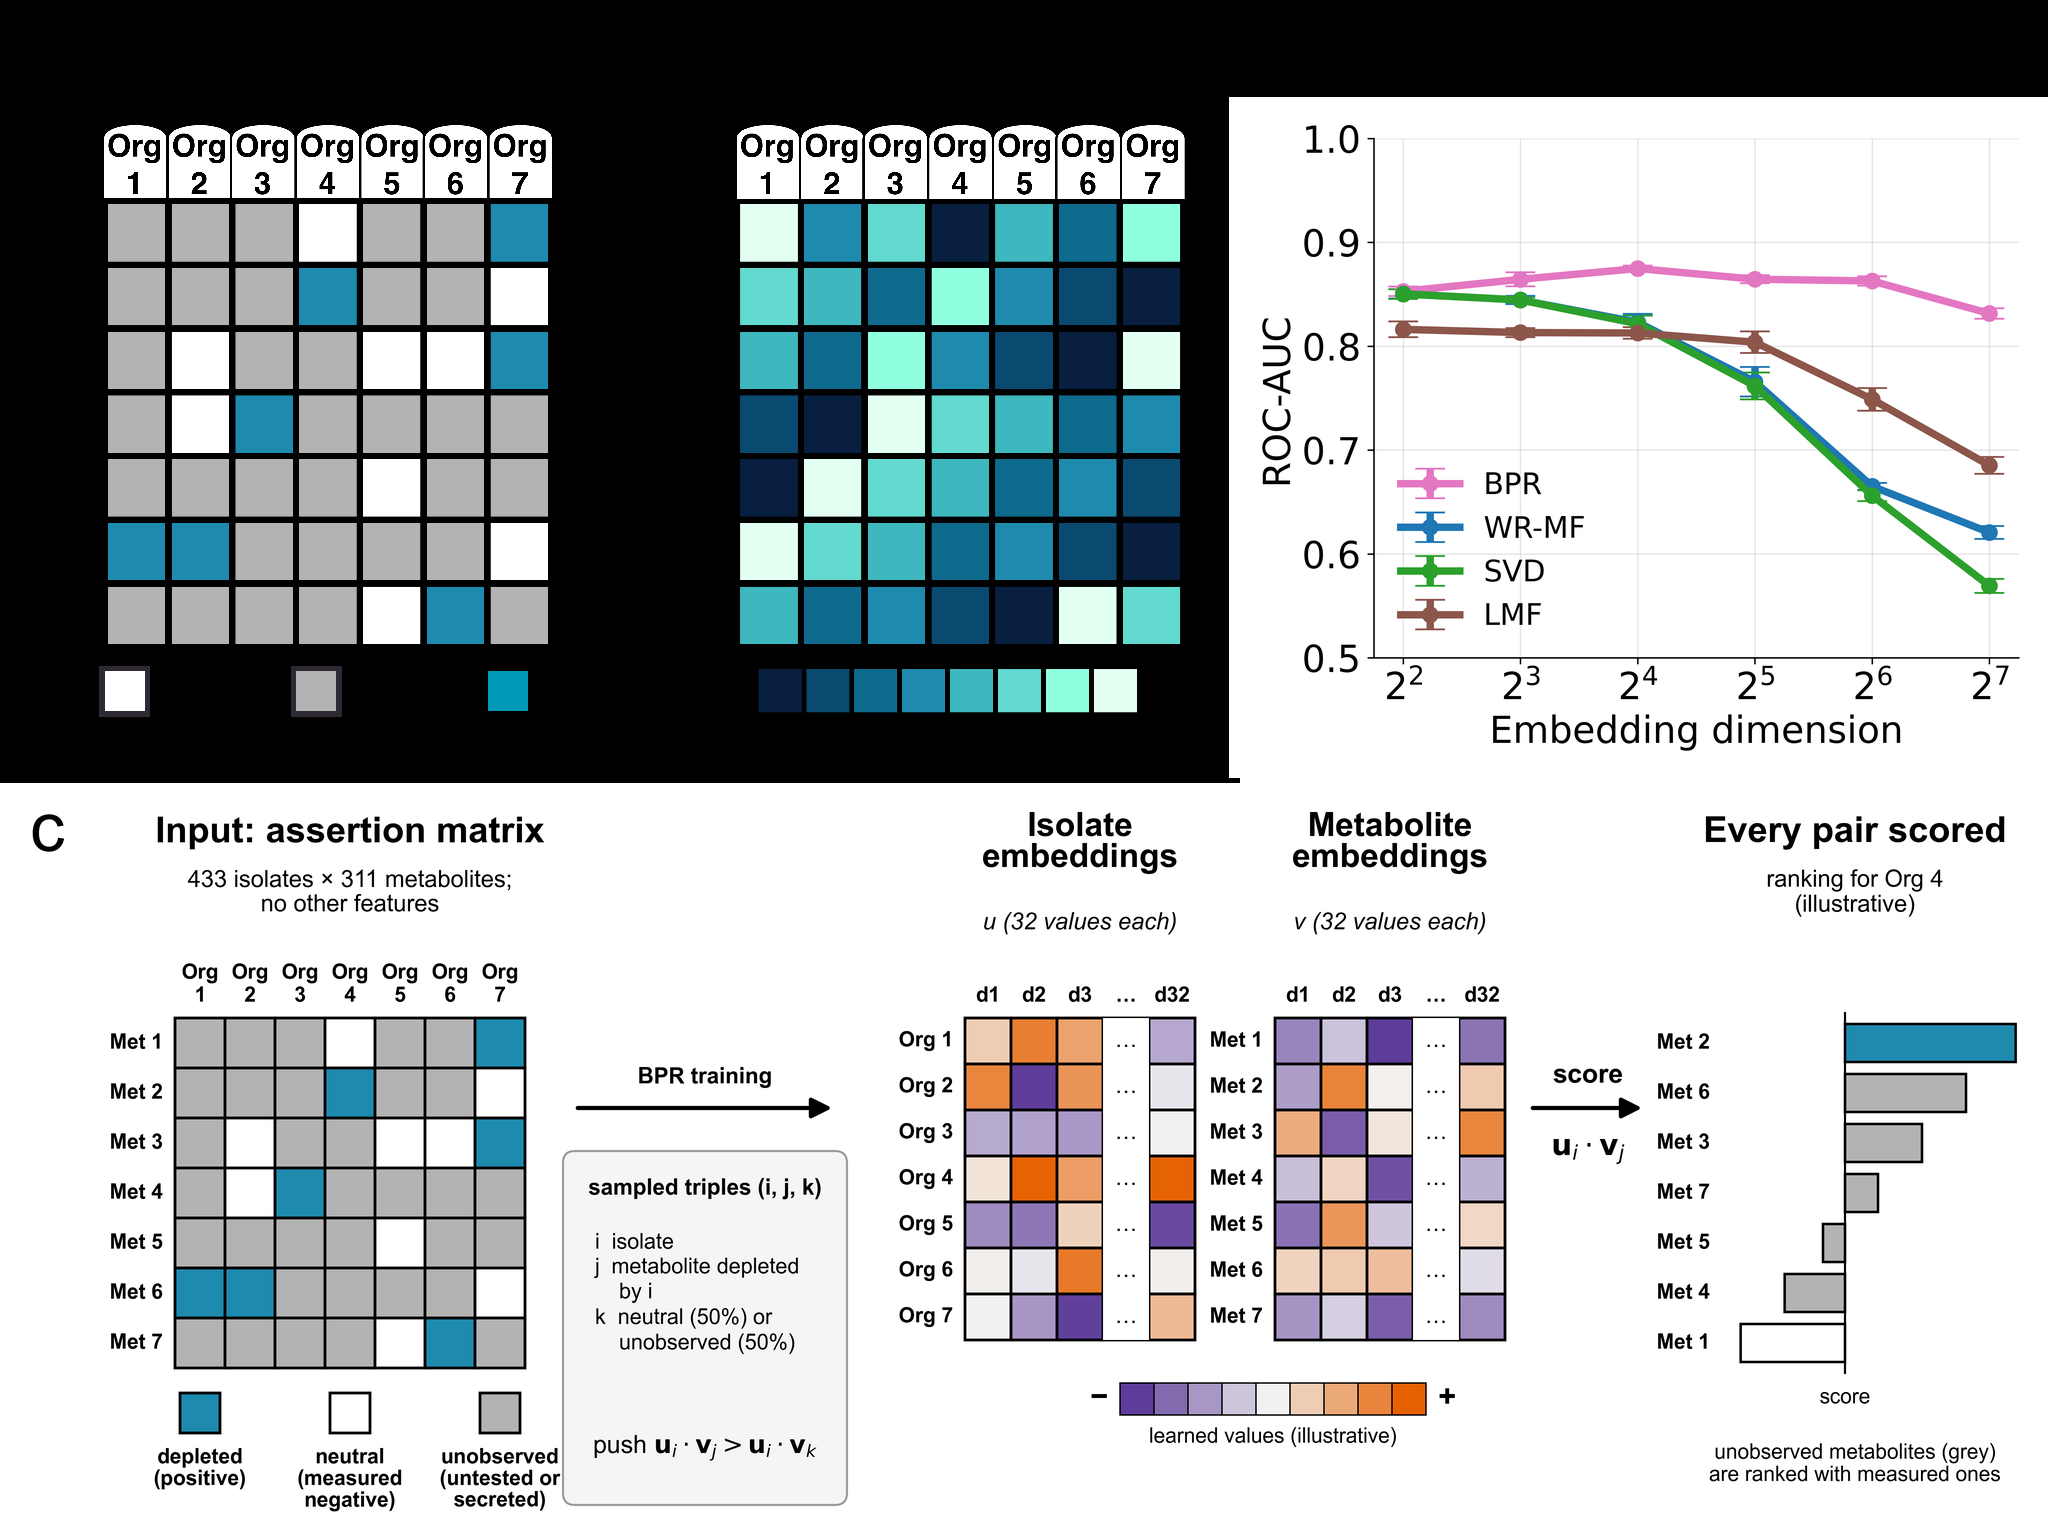
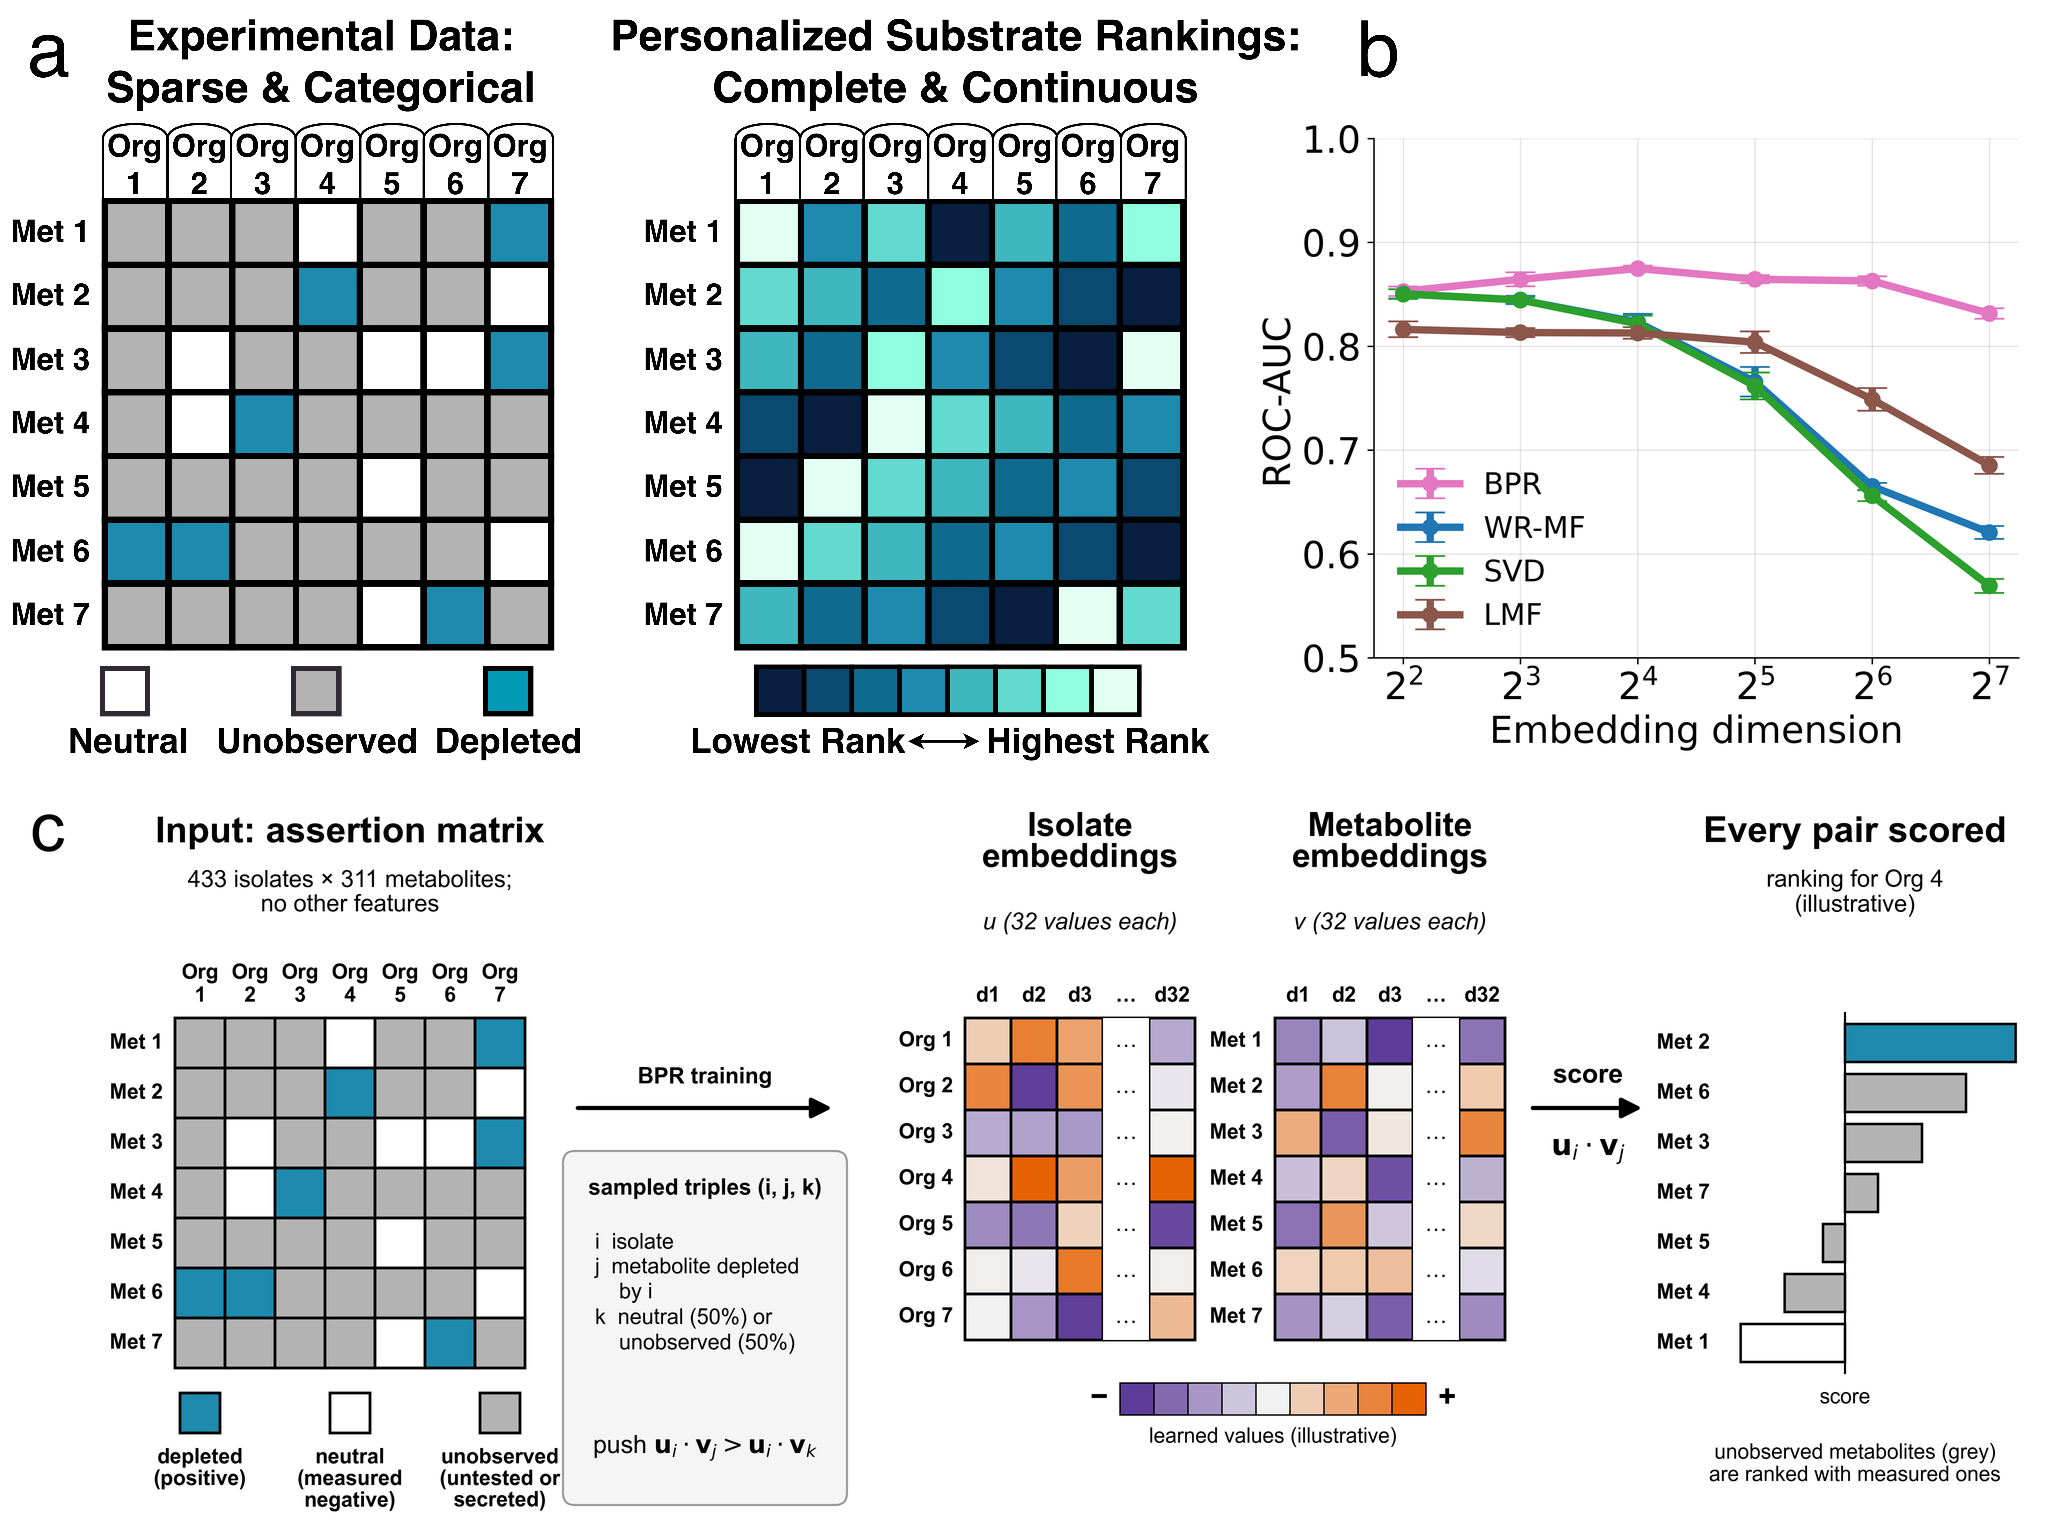
Figure 1: restore the white background of panel a
Panel a has a transparent background (draw.io export). Adding panel c converted the image
to RGB without placing it on white, which turned the transparent area black and hid the
panel's black labels. The image is rebuilt on white from the submitted Figure 1, the
revised panel b and panel c, and the conversion in r1_edits.figure1_with_c is corrected.

Changed region(s): [[0.0, 0.0, 1.0, 0.5246]]

diff --git a/wom/scripts/revision_docx/figure1_white_20261123.py b/wom/scripts/revision_docx/figure1_white_20261123.py
@@ -1,0 +1,65 @@
+# figure1_white_20261123.py
+"""Figure 1: restore the white background of panel a (mSystems revision).
+
+Panel a was drawn in draw.io and exported with a transparent background. When panel c was added
+(r1_edits.figure1_with_c), the image was converted to RGB without first placing it on white, which
+turned every transparent pixel black and hid the black labels of panel a. The corrected image
+(wom/manuscript_figures/msystems_revision/lambda0/r1/fig1c/figure1_revised.png) is rebuilt from the
+submitted Figure 1, the revised panel b and panel c, on white; it differs from the image in the
+manuscript only where the source was transparent. This script puts it into the manuscript. The
+image size is unchanged, so its frame in the document is too.
+
+Usage:
+    python figure1_white_20261123.py            # dry run
+    python figure1_white_20261123.py --apply
+"""
+
+import io
+import sys
+import argparse
+from pathlib import Path
+
+import numpy as np
+from PIL import Image
+
+sys.path.insert(0, str(Path(__file__).parent))
+import revision_paths  # noqa: E402
+from docx_track import TrackedDocx  # noqa: E402
+
+FIXED = (Path(__file__).resolve().parents[3] /
+         "wom/manuscript_figures/msystems_revision/lambda0/r1/fig1c/figure1_revised.png")
+PART = "word/media/image1.png"
+
+
+def black_fraction(im: Image.Image) -> float:
+    return float((np.asarray(im.convert("RGB")).sum(axis=2) == 0).mean())
+
+
+def main(apply: bool):
+    if list(revision_paths.DOCS.glob("~$*")) and apply:
+        raise SystemExit("Word or Excel lock files present; close the documents first")
+    ms = TrackedDocx(revision_paths.MS, "unused")
+    old = Image.open(io.BytesIO(ms.read_part(PART)))
+    new_bytes = FIXED.read_bytes()
+    new = Image.open(io.BytesIO(new_bytes))
+    assert new.size == old.size == (2048, 1523) and new.mode == "RGB", (old.size, new.size, new.mode)
+    a, b = np.asarray(old.convert("RGB")).astype(int), np.asarray(new).astype(int)
+    changed = np.abs(a - b).max(axis=2) > 0
+    assert not changed[783:].any(), "panel c differs"
+    darker = b[changed].sum(axis=1) < a[changed].sum(axis=1)
+    assert not darker.any(), "a pixel became darker; only transparent areas should change, towards white"
+    print(f"   {PART}: black pixels {black_fraction(old):.1%} -> {black_fraction(new):.1%}; "
+          f"{changed.mean():.1%} of pixels change, all in panels a and b and all towards white")
+    if not apply:
+        print("dry run: nothing written")
+        return
+    print(f"backups: {revision_paths.BACKUPS}/*.before-{revision_paths.backup()}.*")
+    ms.replace_part(PART, new_bytes)
+    ms.save()
+    print("saved")
+
+
+if __name__ == "__main__":
+    parser = argparse.ArgumentParser(description=__doc__.splitlines()[0])
+    parser.add_argument("--apply", action="store_true")
+    main(parser.parse_args().apply)

diff --git a/wom/scripts/revision_docx/r1_edits.py b/wom/scripts/revision_docx/r1_edits.py
@@ -227,7 +227,8 @@ def si_captions(n: dict) -> list:
 def figure1_with_c(old_png: bytes) -> bytes:
     from PIL import Image
     Image.MAX_IMAGE_PIXELS = None
-    top = Image.open(io.BytesIO(old_png)).convert("RGB")
+    top = Image.open(io.BytesIO(old_png)).convert("RGBA")  # panel a has a transparent background: place it on white
+    top = Image.alpha_composite(Image.new("RGBA", top.size, (255, 255, 255, 255)), top).convert("RGB")
     if top.height != FIG1_HEIGHT_BEFORE:
         raise SystemExit(f"Figure 1 image is {top.size}; panel c appears to be present already")
     c = Image.open(FIG1C).convert("RGB")
